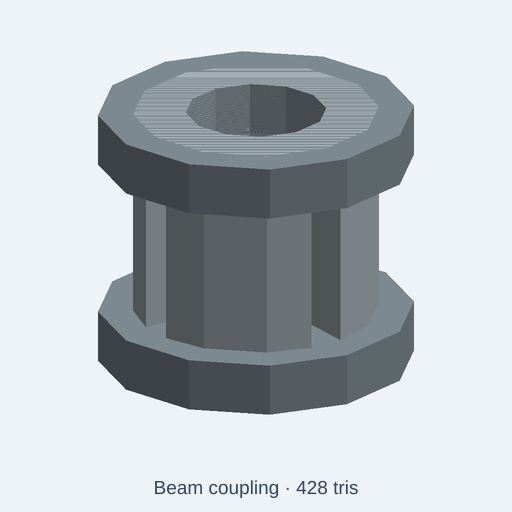
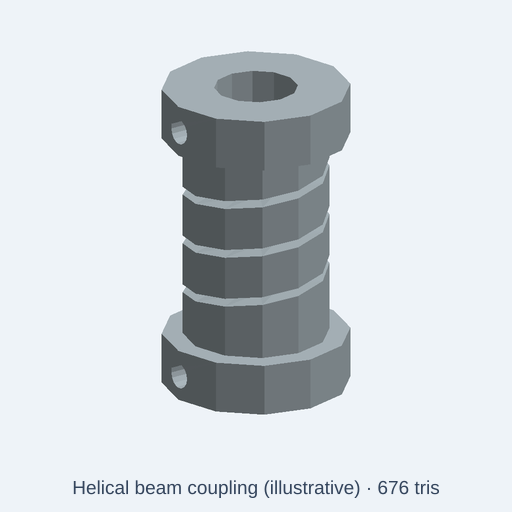
fix(catalog): model actual helical beam coupling flexure and hub bores
Keep CC0 illustrative label; add native BRep, dimension, and negative-control tests. Include the live asset semantic audit evidence.

Changed region(s): [[0.1875, 0.0938, 0.8125, 0.8125], [0.125, 0.9375, 0.875, 0.9688]]

diff --git a/catalog/kits/standard-components/beam-coupling.kcad.ts b/catalog/kits/standard-components/beam-coupling.kcad.ts
@@ -1,32 +1,52 @@
-// Distinctive geometry: Slender beam-style flexible shaft coupling with two end hubs and a slotted center sleeve
+// CC0 illustrative beam coupling, not dimensioned or rated supplier CAD.
+// The flexible middle section uses a genuine continuous helical cut, not
+// cosmetic axial slots. Both hubs are integral with the same machined body.
 meta({
   name: 'beam-coupling',
   license: 'CC0-1.0',
-  title: 'Beam coupling',
-  description: 'Slender beam-style flexible shaft coupling with two end hubs and a slotted center sleeve Knobs: model size, steel, aluminum.',
-  tags: ['beam coupling', 'flexible coupling', 'shaft coupling', 'rotary'],
+  title: 'Helical beam coupling (illustrative)',
+  description: 'One-piece bored shaft coupling with a continuous helical flexure cut, integral end hubs, and two radial set-screw bores. Illustrative geometry only; no fit tolerance, torque rating, or fatigue verification.',
+  tags: ['beam coupling', 'helical coupling', 'flexible shaft coupling', 'low poly', 'scene prop', 'CC0'],
   kit: 'standard-components',
   category: 'attachment',
   origin: 'base',
   compat: ['mechanical', 'industrial', 'workshop', 'assembly'],
-  triangleBudget: 480,
+  triangleBudget: 1000,
 });
 
-const size = param('size', 'standard', { choices: ['compact', 'standard', 'large'], label: 'Model size' });
-const steel = param('steel', '#85929a', { label: 'Steel' });
-const aluminum = param('aluminum', '#aebac0', { label: 'Aluminum' });
+const size = param('size', 'standard', { choices: ['compact', 'standard', 'large'], label: 'Illustrative model scale' });
+const metal = param('metal', '#aebac0', { label: 'Alloy surface (color only)' });
 presets({
-  dark: { steel: '#3e484e', aluminum: '#586970' },
-  brass: { steel: '#646f75', aluminum: '#aab8bc' },
-  weathered: { steel: '#665b4d', aluminum: '#788177' }
+  dark: { metal: '#586970' },
+  brass: { metal: '#c29a5c' },
+  weathered: { metal: '#788177' },
 });
 
 const s = size.value === 'compact' ? 0.75 : size.value === 'large' ? 1.25 : 1;
-const block = (x: number, y: number, z: number, w: number, d: number, h: number) => box(w, d, h).translate(x, y, z);
-const a = assembly('beam-coupling');
-let sleeve=cylinder(30*s,14*s,8).subtract(cylinder(32*s,8*s,8).translate(0,0,-s));
-for (const angle of [0,90,180,270]) sleeve=sleeve.subtract(block(-2*s,-16*s,4*s,4*s,8*s,22*s).rotateZ(angle));
-a.part('sleeve',sleeve.color(aluminum));
-a.part('end-a',cylinder(6*s,18*s,8).subtract(cylinder(8*s,8*s,8).translate(0,0,-s)).color(steel));
-a.part('end-b',cylinder(6*s,18*s,8).subtract(cylinder(8*s,8*s,8).translate(0,0,-s)).translate(0,0,24*s).color(steel));
-return a.model();
+const radiusSegments = 48;
+// A single connected machined blank, with two enlarged end hubs.
+let coupling = cylinder(30 * s, 7 * s, radiusSegments)
+  .union(cylinder(5 * s, 9 * s, radiusSegments))
+  .union(cylinder(5 * s, 9 * s, radiusSegments).translate(0, 0, 25 * s));
+coupling = coupling.subtract(cylinder(32 * s, 4 * s, radiusSegments).translate(0, 0, -s));
+
+// The tool profile penetrates the sleeve wall (r=4..7 mm) throughout a
+// three-turn helix. Exact helical sweep gives a continuous spiral clearance;
+// a set of vertical slots would be a different, much stiffer component.
+const helicalSlot = path()
+  .moveTo(-2 * s, -0.4 * s)
+  .lineTo(2 * s, -0.4 * s)
+  .lineTo(2 * s, 0.4 * s)
+  .lineTo(-2 * s, 0.4 * s)
+  .close()
+  .sweep(helix({ radius: 5.5 * s, pitch: 5 * s, turns: 3 }), { spine: 'helix' })
+  .translate(0, 0, 7.5 * s);
+coupling = coupling.subtract(helicalSlot);
+
+// Each hole opens from the outer hub surface into the 8 mm shaft bore.
+for (const z of [2.5, 27.5]) {
+  coupling = coupling.subtract(
+    cylinder(12 * s, 1.3 * s, 16).rotateY(-90).translate(0, 0, z * s),
+  );
+}
+return coupling.color(metal);

diff --git a/tests/integration/catalog/beamCouplingFidelity.test.ts b/tests/integration/catalog/beamCouplingFidelity.test.ts
@@ -1,0 +1,69 @@
+// SPDX-License-Identifier: MIT
+// A geometric regression: color/preview transport checks cannot detect when a
+// helical coupling has been replaced with four decorative axial slots.
+import { beforeAll, describe, expect, it } from 'vitest';
+import { readFileSync } from 'node:fs';
+import { resolve } from 'node:path';
+import { initOcct, type OcctBackend } from '../../../src/kernel/backends/occt/occtBackend';
+import { runAndExport } from '../../../src/agent/script-runtime/export';
+import { brepValid } from '../../threadGeometryHelpers';
+
+const sourceFile = resolve(import.meta.dirname, '../../../catalog/kits/standard-components/beam-coupling.kcad.ts');
+const source = readFileSync(sourceFile, 'utf8');
+
+async function build(size: 'compact' | 'standard' | 'large' = 'standard', omit?: 'helix' | 'set-screws') {
+  let code = source.replace("param('size', 'standard'", `param('size', '${size}'`);
+  if (omit === 'helix') code = code.replace('coupling = coupling.subtract(helicalSlot);', '// negative control, remove helical cut');
+  if (omit === 'set-screws') code = code.replace('for (const z of [2.5, 27.5]) {', 'for (const z of []) {');
+  let result: { volume: number; size: number[]; valid: boolean } | undefined;
+  const exported = await runAndExport({
+    code,
+    fileName: 'beam-coupling.kcad.ts',
+    scriptDir: resolve(sourceFile, '..'),
+    format: 'glb',
+    options: { format: 'glb', style: 'lowpoly', lowpoly: { maxTriangles: 1000 } },
+    onBuild(root) {
+      const shape = root as OcctBackend;
+      const bb = shape.boundingBox({ exact: true });
+      result = {
+        volume: shape.volume(),
+        size: bb.max.map((v, i) => v - bb.min[i]!),
+        valid: brepValid(shape),
+      };
+    },
+  });
+  expect(exported.diagnostics.filter(d => d.severity === 'error')).toEqual([]);
+  expect(exported.bytes.byteLength).toBeGreaterThan(1000);
+  expect(result).toBeDefined();
+  return result!;
+}
+
+describe('CC0 beam coupling representation', () => {
+  beforeAll(async () => { await initOcct(); });
+
+  it('builds one valid 18×18×30 mm solid and preserves all three size choices', async () => {
+    const reference = await build('standard');
+    expect(reference.valid).toBe(true);
+    expect(reference.size[0]).toBeCloseTo(18, 1);
+    expect(reference.size[1]).toBeCloseTo(18, 1);
+    expect(reference.size[2]).toBeCloseTo(30, 1);
+    for (const [choice, scale] of [['compact', 0.75], ['large', 1.25]] as const) {
+      const model = await build(choice);
+      expect(model.valid).toBe(true);
+      for (let axis = 0; axis < 3; axis++) {
+        expect(model.size[axis]).toBeCloseTo(reference.size[axis]! * scale, 1);
+      }
+      expect(model.volume / reference.volume).toBeCloseTo(scale ** 3, 2);
+    }
+  }, 90000);
+
+  it('has a material-removing helix and two real radial hub bores', async () => {
+    expect(source).toContain('.sweep(helix(');
+    const real = await build('standard');
+    const noHelix = await build('standard', 'helix');
+    const noSetScrews = await build('standard', 'set-screws');
+    expect(real.valid && noHelix.valid && noSetScrews.valid).toBe(true);
+    expect(noHelix.volume - real.volume).toBeGreaterThan(180); // actual ~249 mm³
+    expect(noSetScrews.volume - real.volume).toBeGreaterThan(35); // actual ~53 mm³
+  }, 90000);
+});

diff --git a/docs/quality/asset-semantic-2026-11-10.md b/docs/quality/asset-semantic-2026-11-10.md
@@ -1,0 +1,45 @@
+# KernelCAD asset semantic review — 10 November 2026
+
+## Evidence and scope
+
+- Live production manifest [assets.json](https://kernelcad.com/assets.json) generated `2026-11-10T05:22:29.108Z`, **2,418** assets. Existing **66/66 manufacturing-priority** visual/source audit is preserved in [web PR #1279](https://github.com/w1ne/kernelCAD-web/pull/1279/files) and [server issue #622](https://github.com/w1ne/kernelCAD-server/issues/622), rather than duplicated here. Of these, 50 are CC0 low-poly scene props and 16 are MIT manufacturing examples. The earlier check was visually scoped and did not certify manufacturing tolerances.
+- Production source and PNG for three MIT assets `manufacturing/deep-groove-bearing`, `manufacturing/socket-head-cap-screw`, and `manufacturing/hex-head-bolt` now reflect [merged server PR #623](https://github.com/w1ne/kernelCAD-server/pull/623). Verified live 2026-11-10: bearing wrapper creates distinct races and balls; both bolt wrappers request `detail: full`. A full four-variant assembly tolerance validation was **not** done in this run.
+- This pass samples **18 further recently changed/high-visibility assets across 9 kits**, preserving downloaded source + PNG hashes and the visual contact sheet locally on work-1: `/home/andrii/ventures/state/kernelcad-asset-review-20261110/sampled-live/contact-18.jpg`; 18/18 URL downloads worked, 18 unique preview SHA-256 values and no blank/near-uniform PNGs. These are CC0 **scene props**, not OEM/engineering geometry. Preview checks alone do not prove physical fidelity.
+
+## P1 improvement: `standard-components/beam-coupling`
+
[2 lines of base64/hex data omitted]
+- **Geometry proof:** standard model envelope 18 × 18 × 30 mm; compact 13.5 × ~13.5 × 22.5 mm; large 22.5 × 22.5 × 37.5 mm. Standard BRep volume 3813.23 mm³; negative control without helical slot 4062.05 mm³ (**248.81 mm³** removed); negative control without set-screw bores 3866.67 mm³ (**53.44 mm³** removed). All three size choices passed BRep validity and evaluated without error. This proves material removal, not fatigue life, torque capacity, ISO dimensions or fit tolerances.
+- **Tests:** focused source/GLB build 676 triangles of 1,000 budget, 1 material and one BRep body. Targeted `vitest` 6/6 passed (including two new BRep fidelity regressions); `eslint` passed; catalog index single-row updated, full catalog index check tracked separately. Both original and new 512×512 PNGs retained on work-1 at `.../beam-coupling/before-render.png` and `.../beam-coupling/after-render.png`.
+- **Deployment:** not merged or shipped. Do not label as deployed or fixed in production until PR review/CI and [live asset](https://kernelcad.com/assets/standard-components-beam-coupling.png) verify.
+
+## Additional live sample ledger
+
+| Slug | Expected visible component identity | Actual observation | Priority / status | Source and preview SHA prefixes | Action |
+|---|---|---|---|---|---|
+| [`lab-infrastructure/laboratory-fume-hood`](https://kernelcad.com/assets/lab-infrastructure-laboratory-fume-hood.png) | enclosure with work opening/extraction section | recognizable low-poly silhouette and expected main visible features | CC0 visual pass only | src `3fd671e3464c` / PNG `938187398984` | No issue; functional CAD unverified |
+| [`lab-infrastructure/laboratory-gas-cylinder-cabinet`](https://kernelcad.com/assets/lab-infrastructure-laboratory-gas-cylinder-cabinet.png) | vented cylinder storage cabinet | recognizable low-poly silhouette and expected main visible features | CC0 visual pass only | src `6837bf3d74e4` / PNG `e6af1db051dd` | No issue; functional CAD unverified |
+| [`lab-infrastructure/laminar-flow-workbench`](https://kernelcad.com/assets/lab-infrastructure-laminar-flow-workbench.png) | enclosed clean workbench | recognizable low-poly silhouette and expected main visible features | CC0 visual pass only | src `1d475efd1af4` / PNG `e93cb052f87e` | No issue; functional CAD unverified |
+| [`sports/treadmill`](https://kernelcad.com/assets/sports-treadmill.png) | walking deck and control console | recognizable low-poly silhouette and expected main visible features | CC0 visual pass only | src `0d127a836495` / PNG `bc90303bc9ca` | No issue; functional CAD unverified |
+| [`sports/gym-bench`](https://kernelcad.com/assets/sports-gym-bench.png) | inclined weight bench | recognizable low-poly silhouette and expected main visible features | CC0 visual pass only | src `60c94f94e577` / PNG `10d16d2a290e` | No issue; functional CAD unverified |
+| [`fire-rescue/aerial-ladder-fire-engine`](https://kernelcad.com/assets/fire-rescue-aerial-ladder-fire-engine.png) | ladder truck with aerial boom | recognizable low-poly silhouette and expected main visible features | CC0 visual pass only | src `79bb830dd850` / PNG `155182fdd6cb` | No issue; functional CAD unverified |
+| [`fire-rescue/quint-fire-apparatus`](https://kernelcad.com/assets/fire-rescue-quint-fire-apparatus.png) | fire engine with top-mounted aerial ladder | recognizable low-poly silhouette and expected main visible features | CC0 visual pass only | src `a8e3299d76e6` / PNG `91ca31ab13e1` | No issue; functional CAD unverified |
+| [`water-treatment/circular-clarifier`](https://kernelcad.com/assets/water-treatment-circular-clarifier.png) | circular settlement tank and scraper bridge | recognizable low-poly silhouette and expected main visible features | CC0 visual pass only | src `31439344572b` / PNG `35faf6f5f25f` | No issue; functional CAD unverified |
+| [`water-treatment/surface-aerator`](https://kernelcad.com/assets/water-treatment-surface-aerator.png) | rotor mounted above circular water-treatment basin | recognizable low-poly silhouette and expected main visible features | CC0 visual pass only | src `5a158375c075` / PNG `d397ac19a115` | No issue; functional CAD unverified |
+| [`wind-energy/oil-cooler-module`](https://kernelcad.com/assets/wind-energy-oil-cooler-module.png) | industrial fan array and frame | recognizable low-poly silhouette and expected main visible features | CC0 visual pass only | src `3908a1e83112` / PNG `e29801e732b4` | No issue; functional CAD unverified |
+| [`wind-energy/gearbox-enclosure`](https://kernelcad.com/assets/wind-energy-gearbox-enclosure.png) | wind-turbine gearbox assembly silhouette | recognizable low-poly silhouette and expected main visible features | CC0 visual pass only | src `fd9f8f7e9964` / PNG `903e46c856ba` | No issue; functional CAD unverified |
+| [`archaeology-fieldwork/total-station`](https://kernelcad.com/assets/archaeology-fieldwork-total-station.png) | survey instrument on tripod | recognizable low-poly silhouette and expected main visible features | CC0 visual pass only | src `8479196a6ae6` / PNG `29e4afc59a95` | No issue; functional CAD unverified |
+| [`archaeology-fieldwork/hand-auger`](https://kernelcad.com/assets/archaeology-fieldwork-hand-auger.png) | soil sampling auger with T-handle | recognizable low-poly silhouette and expected main visible features | CC0 visual pass only | src `d318355933a7` / PNG `12ba538e0610` | No issue; functional CAD unverified |
+| [`office/paper-shredder`](https://kernelcad.com/assets/office-paper-shredder.png) | paper shredder with slot and bin | recognizable low-poly silhouette and expected main visible features | CC0 visual pass only | src `ac6cc3aaff96` / PNG `b6e70c69fda5` | No issue; functional CAD unverified |
+| [`office/stapler`](https://kernelcad.com/assets/office-stapler.png) | hinged stapler head and base | recognizable low-poly silhouette and expected main visible features | CC0 visual pass only | src `a9eff01e42f5` / PNG `7495140fa0ff` | No issue; functional CAD unverified |
+| [`travel-gear/travel-adapter`](https://kernelcad.com/assets/travel-gear-travel-adapter.png) | travel plug adapter with pins and ports | EU prong diameter and spacing are illustrative; actual plug-standard compliance unverified | P2: dimensions/standard unverified | src `ff0ce88d7d84` / PNG `ce1386dc2790` | No issue; functional CAD unverified |
+| [`travel-gear/rolling-suitcase`](https://kernelcad.com/assets/travel-gear-rolling-suitcase.png) | wheeled luggage with extended handle | recognizable low-poly silhouette and expected main visible features | CC0 visual pass only | src `b49a31aa0ce6` / PNG `2c76be97e369` | No issue; functional CAD unverified |
+| [`grid-substation/substation-cable-ladder-section`](https://kernelcad.com/assets/grid-substation-substation-cable-ladder-section.png) | 3,000 mm rail section with rungs all between stringer ends | 6 of 13 rungs extend outside 3,000 mm stringers (X=1800..4050 versus max 1500) | P1: incorrect source geometry | src `ec81b9385037` / PNG `0d818d5ecc11` | [issue #1296](https://github.com/w1ne/kernelCAD-web/issues/1296) |
+
+## Follow-up gates
+
+- Review CI and normal repository merge gates for the focused beam PR. Verify production **source, preview, title, and parameter choices** after a successful deploy; until then keep production state unchanged.
+- Fix [#1296](https://github.com/w1ne/kernelCAD-web/issues/1296): six detached substation cable-ladder rungs at X=1,800..4,050 mm exceed ±1,500 mm stringers. This is independent of the beam defect and remains open.
+- Continue existing [manufacturing audit issue #622](https://github.com/w1ne/kernelCAD-server/issues/622): P1 envelopes / missing manufacturing features in bearing-and-shaft assembly, hex nut and heat-set insert; P2 marked illustrative only. Do not promote CC0 props as manufacturer-grade CAD.
+- This run inspected all 18 downloaded PNGs as a contact sheet. No mechanical evaluation was performed on those 18, and no inference about deployment quality beyond downloaded source and preview is made.
